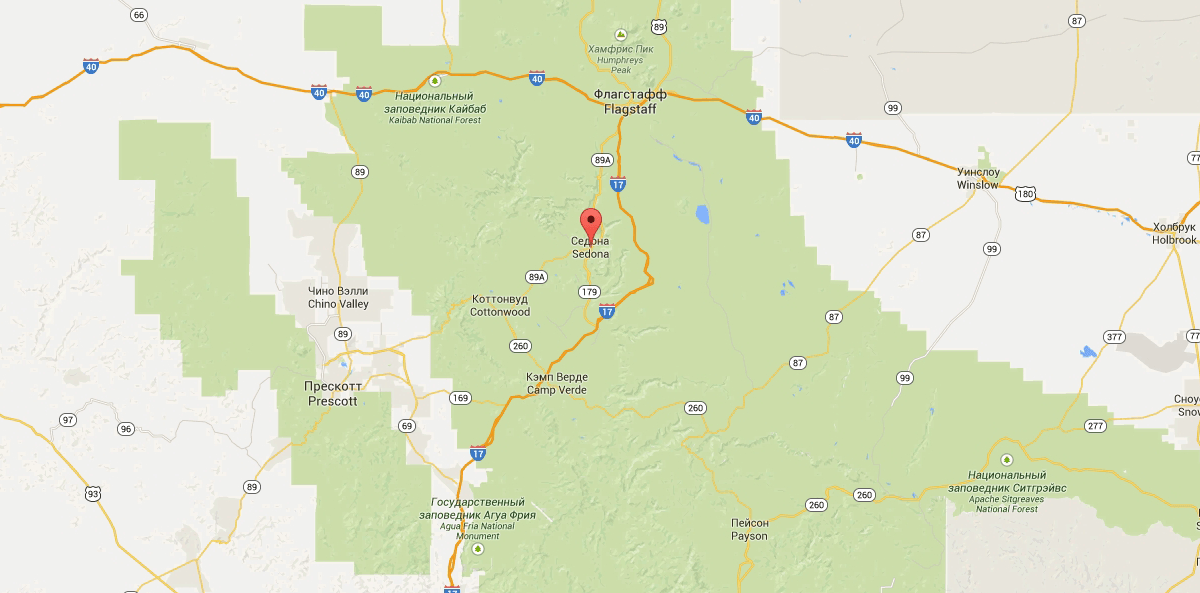
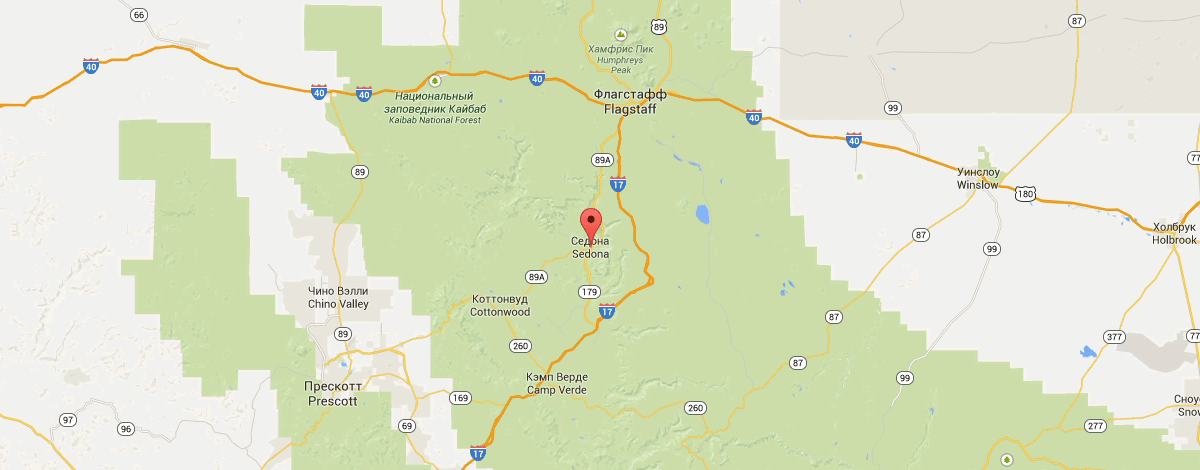
Оформление контента+js
контент+js

diff --git a/css/style.css b/css/style.css
@@ -290,7 +290,9 @@ img {
   padding-top:55px;
   text-align: center;
 }
-
+iframe {
+  background-image: url("../img/map.png");
+}
 .interested-title{
   font-size  : 30px;
   line-height: 24px;
@@ -312,10 +314,10 @@ img {
   margin-top:30px;
 }
 
-.btn-search {
+.btn-modal {
   display: block;
   width:455px;
-  padding:29px 55px;
+  padding:30px 55px;
   margin: auto;
   margin-top: 46px;
 
@@ -326,6 +328,7 @@ img {
   color:#fff;
   background-color: #766357;
   text-align: center;
+  text-decoration: none;
   cursor: pointer;
 
   /*outline: 1px solid black;*/
@@ -342,8 +345,6 @@ img {
   bottom:85px;
   left:317px;
 
-
-
   font-family: inherit;
   font-size: 14px;
   line-height: 26px;
@@ -352,12 +353,32 @@ img {
   /*outline: 1px solid black;*/
 }
 
-.hotel-search-show {
-  display: block;
+.hidden {
+  display: none;
+  animation: close;
 }
 
-.hotel-search-hidden {
-  display: none;
+.show {
+  display:block;
+  animation: bounce 0.7s ;
+}
+/*Анимация появления формы*/
+@keyframes bounce {
+  0%   {
+    transform: translateY(-200px);
+    opacity: 0;
+  }
+  70%  {
+    transform: translateY(30px);
+    opacity: 0.5;
+  }
+  90%  {
+    transform: translateY(-10px);
+    opacity: 0.7;
+  }
+  100% {
+    transform: translateY(0);
+  }
 }
 
 .hotel-search input {
@@ -393,25 +414,13 @@ img {
 }
 
 .arrival .calendar:hover {
-  position: absolute;
-  width: 21px;
-  height: 22px;
-  top: 64px;
-  right:62px;
-  background-image: url("../img/sprite.png");
-  background-repeat: no-repeat;
+
   background-position: -128px -57px;
 
 }
 
 .arrival .calendar:active {
-  position: absolute;
-  width: 21px;
-  height: 22px;
-  top: 64px;
-  right:62px;
-  background-image: url("../img/sprite.png");
-  background-repeat: no-repeat;
+
   background-position: -298px -25px;
 
 }
@@ -430,27 +439,13 @@ img {
 }
 
 .departure .calendar:hover {
-  content: "";
-  position: absolute;
-  width: 21px;
-  height: 22px;
-  top: 130px;
-  right: 62px;
-  background-image: url("../img/sprite.png");
-  background-repeat: no-repeat;
+
   background-position: -128px -57px;
 
 }
 
 .departure .calendar:active {
-  content: "";
-  position: absolute;
-  width: 21px;
-  height: 22px;
-  top: 130px;
-  right: 62px;
-  background-image: url("../img/sprite.png");
-  background-repeat: no-repeat;
+
   background-position: -298px -25px;
 }
 
@@ -496,7 +491,6 @@ img {
 .half-width input {
   width: 51px;
   padding: 6px 31px;
-  text-align: center;
 
 }
 
@@ -510,30 +504,17 @@ img {
   background-image: url("../img/sprite.png");
   background-repeat: no-repeat;
   background-position: -211px -57px;
+  cursor: pointer;
 
 }
 
 .half-width .minus-people:hover{
-  content: "";
-  position: absolute;
-  width: 12px;
-  height: 3px;
-  top: 8px;
-  left: 125px;
-  background-image: url("../img/sprite.png");
-  background-repeat: no-repeat;
+
   background-position: -255px -57px;
 }
 
 .half-width .minus-people:active{
-  content: "";
-  position: absolute;
-  width: 12px;
-  height: 3px;
-  top: 8px;
-  left: 125px;
-  background-image: url("../img/sprite.png");
-  background-repeat: no-repeat;
+
   background-position: -233px -57px;
 }
 
@@ -548,29 +529,16 @@ img {
   background-image: url("../img/sprite.png");
   background-repeat: no-repeat;
   background-position: -277px -57px;
+  cursor: pointer;
 }
 
 .half-width .plus-people:hover {
-  content: "";
-  position: absolute;
-  width: 11px;
-  height: 11px;
-  top: 3px;
-  left: 201px;
-  background-image: url("../img/sprite.png");
-  background-repeat: no-repeat;
+
   background-position: -5px -135px;
 }
 
 .half-width .plus-people:active {
-  content: "";
-  position: absolute;
-  width: 11px;
-  height: 11px;
-  top: 3px;
-  left: 201px;
-  background-image: url("../img/sprite.png");
-  background-repeat: no-repeat;
+
   background-position: -298px -57px;
 }
 
@@ -584,29 +552,16 @@ img {
   background-image: url("../img/sprite.png");
   background-repeat: no-repeat;
   background-position: -211px -57px;
+  cursor: pointer;
 }
 
 .half-width .minus-child:hover {
-  content: "";
-  position: absolute;
-  width: 12px;
-  height: 3px;
-  top: 8px;
-  left: 82px;
-  background-image: url("../img/sprite.png");
-  background-repeat: no-repeat;
+
   background-position: -255px -57px;
 }
 
 .half-width .minus-child:active {
-  content: "";
-  position: absolute;
-  width: 12px;
-  height: 3px;
-  top: 8px;
-  left: 82px;
-  background-image: url("../img/sprite.png");
-  background-repeat: no-repeat;
+
   background-position: -233px -57px;
 }
 
@@ -620,29 +575,15 @@ img {
   background-image: url("../img/sprite.png");
   background-repeat: no-repeat;
   background-position: -277px -57px;
+  cursor: pointer;
 }
 
 .half-width .plus-child:hover {
-  content: "";
-  position: absolute;
-  width: 11px;
-  height: 11px;
-  top: 3px;
-  left: 158px;
-  background-image: url("../img/sprite.png");
-  background-repeat: no-repeat;
   background-position: -5px -135px;
 }
 
 .half-width .plus-child:active {
-  content: "";
-  position: absolute;
-  width: 11px;
-  height: 11px;
-  top: 3px;
-  left: 158px;
-  background-image: url("../img/sprite.png");
-  background-repeat: no-repeat;
+
   background-position: -298px -57px;
 }
 
@@ -779,24 +720,12 @@ img {
 }
 
 .icon-logo:hover {
-  content: "";
-  position: absolute;
-  top:35px;
-  left:184px;
-  width: 113px;
-  height: 39px;
-  background-image: url("../img/sprite.png");
+
   background-position: -191px -86px;
 }
 
 .icon-logo:active {
-  content: "";
-  position: absolute;
-  top:35px;
-  left:184px;
-  width: 113px;
-  height: 39px;
-  background-image: url("../img/sprite.png");
+
   background-position: -5px -86px;
 }
 /*inner.html*/
@@ -967,11 +896,11 @@ input[type="checkbox"]:checked + label::before {
 .price-controls .min,
 .price-controls .max {
   width: 90px;
-  padding-left: 65px;
+  margin-left: 65px;
 }
 
 .price-controls input {
-  width: 60px;
+  width: 90px;
   margin: 0;
 
   color: inherit;
@@ -983,9 +912,12 @@ input[type="checkbox"]:checked + label::before {
   outline: none;
 }
 
-.price-controls::-webkit-input-placeholder {
-  text-overflow:ellipsis;
+.price-controls input::-webkit-input-placeholder {
   color: #fff;
+}
+
+.price-controls input:focus::-webkit-input-placeholder {
+  opacity:0;
 }
 
 .range-controls {
@@ -1280,7 +1212,7 @@ input[type="checkbox"]:checked + label::before {
 }
 .reserv:active {
   background-color: #503e33;
-  color: #857871;
+  color: #
 }
 
 

diff --git a/index.html b/index.html
@@ -11,7 +11,7 @@
     <header class="main-header">
       <div class="container clearfix">
         <div class="index-logo">
-          <a href="index.html">
+          <a href="#">
             <img src="img/index-logo.png" width="138" height="71" alt="logo">
           </a>
         </div>
@@ -43,7 +43,7 @@
             СЕДОНА — НЕБОЛЬШОЙ ГОРОДОК В АРИЗОНЕ,<br>
             ЗАСЛУЖИВАЮЩИЙ БОЛЬШЕГО!
           </h2>
-          <p>РАССМОТРИМ 5 ПРИЧИН, ПО КОТОРЫМ СЕДОНА КРУЧЕ, ЧЕМ ГРАНД КАНЬОН!</p>
+          <p>РАССМОТРИМ 5 ПРИЧИН, ПО КОТОРЫМ СЕДОНА КРУЧЕ, ЧЕМ ГРАНД КАНЬОН!d</p>
         </div>
         <!--Первая строка  -->
         <div class="reasons-line clearfix">
@@ -113,10 +113,12 @@
           Укажите предполагаемые даты поездки,<br>
           и мы покажем вам лучшие предложения гостиниц в седоне
         </p>
-        <span class="btn-search">Поиск гостиницы в Седоне</span>
+        <a class="btn-modal" href="#">Поиск гостиницы в Седоне</a>
       </div>
       <div class="map" id="map">
-        <img src="img/map.png" width="1200" height="470" alt="map-img">
+        <iframe src="https://www.google.com/maps/embed?pb=!1m18!1m12!1m3!1d702898.7437277016!2d-111.91040446573966!3d35.076638901458885!2m3!1f0!2f0!3f0!3m2!1i1024!2i768!4f13.1!3m3!1m2!1s0x872da132f942b00d%3A0x5548c523fa6c8efd!2z0KHQtdC00L7QvdCwLCDQkNGA0LjQt9C-0L3QsCA4NjMzNiwg0KHQqNCQ!5e0!3m2!1sru!2sru!4v1479039821159"
+          width="1200" height="470" style="border:0" allowfullscreen>
+        </iframe>
       </div>
       <form class="hotel-search" action="/echo" method="post" name="hotel-search">
         <div class="arrival">
@@ -166,5 +168,6 @@
         </section>
       </div>
     </footer>
+    <script src="js/script.js"></script>
   </body>
 </html>

diff --git a/inner.html b/inner.html
@@ -12,7 +12,7 @@
       <div class="container clearfix">
         <div class="index-logo">
           <a href="index.html">
-            <img src="img/index-logo.png" width="138" height="73">
+            <img src="img/index-logo.png" width="138" height="71" alt="logo">
           </a>
         </div>
         <nav class="main-navigation">

diff --git a/js/script.js b/js/script.js
@@ -1,0 +1,8 @@
+var btn = document.querySelector(".btn-modal");
+var form = document.querySelector(".hotel-search");
+form.classList.add("hidden");
+btn.addEventListener("click",function(event){
+  event.preventDefault();
+  console.log("Click!")
+  form.classList.toggle("show")
+})
